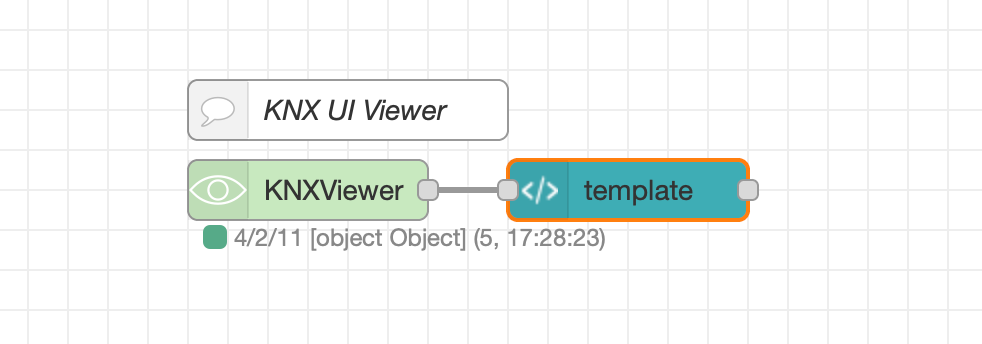
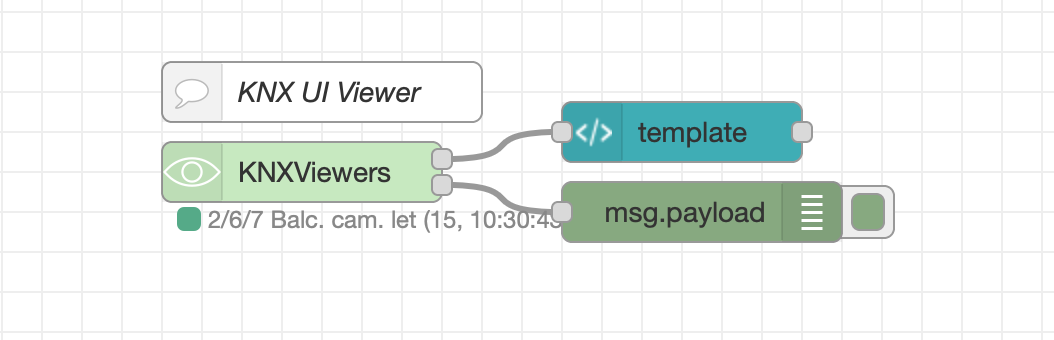
.

Changed region(s): [[0.1527, 0.1765, 0.8554, 0.7353]]

diff --git a/nodes/knxUltimateViewer.js b/nodes/knxUltimateViewer.js
@@ -1,4 +1,7 @@
+const KNXAddress = require("./../KNXEngine/protocol/KNXAddress").KNXAddress;
+
 module.exports = function (RED) {
+
 
     function knxUltimateViewer(config) {
         RED.nodes.createNode(this, config)
@@ -43,15 +46,15 @@ module.exports = function (RED) {
             } catch (error) {
 
             }
-            let sDate = new Date().toLocaleString();
             let sDeviceName = msg.devicename === node.name ? "Import ETS file to view the group address name" : msg.devicename; // The ETS file hasn't been imported
+            let sAddressRAW = KNXAddress.createFromString(msg.knx.destination, KNXAddress.TYPE_GROUP).get();    // Address as number (for ordering later)
             if (oGa === undefined) {
-                node.exposedGAs.push({ address: msg.knx.destination, dpt: msg.knx.dpt, payload: msg.payload, devicename: sDeviceName, lastupdate: sDate });
+                node.exposedGAs.push({ address: msg.knx.destination, addressRAW: sAddressRAW, dpt: msg.knx.dpt, payload: msg.payload, devicename: sDeviceName, lastupdate: new Date() });
             } else {
                 oGa.dpt = msg.knx.dpt;
                 oGa.payload = msg.payload;
-                oGa.devicename =sDeviceName;
-                oGa.lastupdate = sDate;
+                oGa.devicename = sDeviceName;
+                oGa.lastupdate = new Date();
             }
             // Output the payload
             node.createPayload();
@@ -74,30 +77,44 @@ module.exports = function (RED) {
             let sPayload = "";
 
             const aSorted = node.exposedGAs.sort((a, b) => {
-                if (a.address !== undefined && b.address !== undefined) {
-                    return a.address > b.address ? 1 : -1;
+                if (a.addressRAW !== undefined && b.addressRAW !== undefined) {
+                    return a.addressRAW > b.addressRAW ? 1 : -1;
                 } else {
-                    return a.address !== undefined ? 1 : -1
+                    return a.addressRAW !== undefined ? 1 : -1
                 }
             });
+            try {
+                for (let index = 0; index < aSorted.length; index++) {
+                    const element = aSorted[index];
+                    sPayload += `<tr><td>` + element.address + `</td>`;
+                    if (typeof element.payload === "boolean" && element.payload === true) {
+                        sPayload += "<td><b><font color=green>True</font></b></td>";
+                    } else if (typeof element.payload === "boolean" && element.payload === false) {
+                        sPayload += "<td><font color=red>False</font></td>";
+                    } else if (typeof element.payload === "object" && !isNaN(Date.parse(element.payload))) {
+                        // The payload is a datetime
+                        sPayload += "<td>" + element.payload.toLocaleString() + "</td>";
+                    } else if (typeof element.payload === "object") {
+                        // Is maybe a JSON?
+                        try {
+                            sPayload += "<td>" + JSON.stringify(element.payload) + "</td>";
+                        } catch (error) {
+                            sPayload += "<td>" + element.payload + "</td>";
+                        }
 
-            for (let index = 0; index < aSorted.length; index++) {
-                const element = aSorted[index];
-                sPayload += `<tr>
-                <td>` + element.address + `</td>`;
-                if (typeof element.payload === "boolean" && element.payload === true) {
-                    sPayload += "<td><b><font color=green>True</font></b></td>";
-                } else if (typeof element.payload === "boolean" && element.payload === false) {
-                    sPayload += "<td><font color=red>False</font></td>";
-                } else {
-                    sPayload += "<td>" + element.payload + "</td>";
+                    } else {
+                        sPayload += "<td>" + element.payload + "</td>";
+                    }
+                    sPayload += "<td>" + element.dpt + "</td>"
+                    sPayload += "<td>" + element.lastupdate.toLocaleString() + "</td>";
+                    sPayload += "<td><font size=2pt>" + element.devicename + "</font></td></tr>";
                 }
-                sPayload += "<td>" + element.dpt + "</td>"
-                sPayload += "<td>" + element.lastupdate + "</td>";
-                sPayload += "<td><font size=2pt>" + element.devicename + "</font></td></tr>";
+
+            } catch (error) {
+
             }
 
-            node.send({ topic: node.name, payload: sHead + sPayload + sFooter });
+            node.send([{ topic: node.name, payload: sHead + sPayload + sFooter }, { topic: node.name, payload: node.exposedGAs }]);
         }
 
         node.on("input", function (msg) {

diff --git a/nodes/knxUltimateViewer.html b/nodes/knxUltimateViewer.html
@@ -8,7 +8,19 @@
             name: { value: "KNXViewer", validate: RED.validators.regex(/^[a-z]+$/i) }
         },
         inputs: 0,
-        outputs: 1,
+        outputs: 2,
+        outputLabels: function (i) {
+			switch (i) {
+				case 0:
+					return "Formatted Payload";
+					break;
+				case 1:
+					return "Simple Array";
+					break;
+				default:
+					break;
+			}
+		},
         icon: "node-eye-icon.svg",
         label: function () {
             return (this.name);

diff --git a/CHANGELOG.md b/CHANGELOG.md
@@ -7,6 +7,12 @@
 # CHANGELOG
 
 <p>
+<b>Version 1.3.31</b> - February 2022<br/>
+- KNX Viewer node: now the payload is formatted depending on value type.<br/>
+- KNX Viewer node: now the list is ordered by group address.<br/>
+- KNX Viewer node: added a second output pin, that emits an Array containing all group addresses.<br/>
+</p>
+<p>
 <b>Version 1.3.30</b> - February 2022<br/>
 - KNX Viewer node: changed the Datetime display to local time format.<br/>
 </p>
